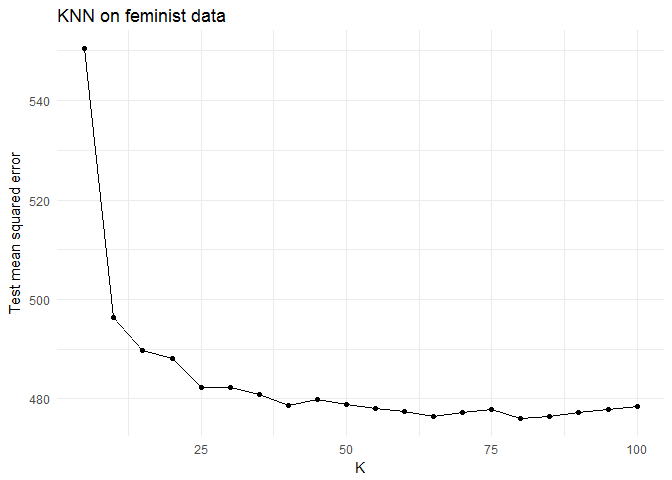
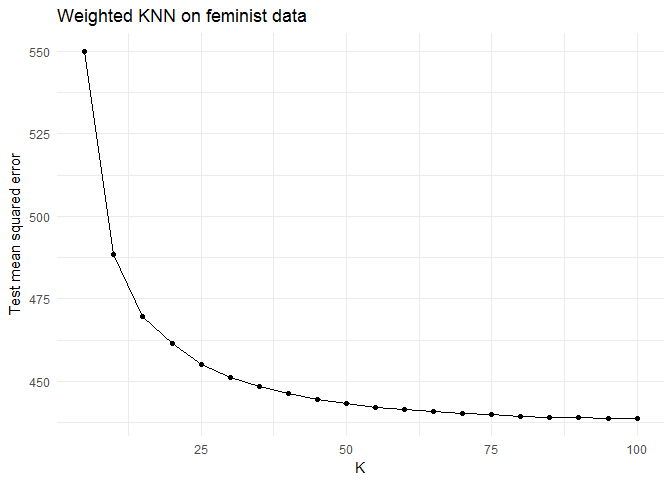
q1 q2 done

diff --git a/students/Lim_ChengYee/PS9/ps9-nonparametric-unsupervised.md b/students/Lim_ChengYee/PS9/ps9-nonparametric-unsupervised.md
@@ -27,29 +27,58 @@ feminist_test <- as_tibble(feminist_split$test)
 1.  Calculate the test MSE for KNN models with *K* = 5, 10, 15, …, 100, using whatever combination of variables you see fit. Which model produces the lowest test MSE?
 
 ``` r
-mse_knn <- data_frame(k = seq(5, 15, by = 5),
-                      knn = map(k, ~ knn.reg(select(feminist_train, -feminist), y = feminist_train$feminist,
-                         test = select(feminist_test, -feminist), k = .)),
-                      mse = map_dbl(knn, ~ mean((feminist_test$feminist - .$pred)^2)))
-```
-
-1.  Calculate the test MSE for weighted KNN models with *K* = 5, 10, 15, …, 100 using the same combination of variables as before. Which model produces the lowest test MSE?
-
-``` r
 mse_knn <- data_frame(k = seq(5, 100, by = 5),
                       knn = map(k, ~ knn.reg(select(feminist_train, -feminist), y = feminist_train$feminist,
                          test = select(feminist_test, -feminist), k = .)),
                       mse = map_dbl(knn, ~ mean((feminist_test$feminist - .$pred)^2)))
 
-ggplot(mse_knn, aes(k, mse)) +
+mse_knn %>% 
+  select(-knn) %>%
+  kable()
+```
+
+|    k|  mse|
+|----:|----:|
+|    5|  550|
+|   10|  496|
+|   15|  490|
+|   20|  488|
+|   25|  482|
+|   30|  482|
+|   35|  481|
+|   40|  479|
+|   45|  480|
+|   50|  479|
+|   55|  478|
+|   60|  477|
+|   65|  476|
+|   70|  477|
+|   75|  478|
+|   80|  476|
+|   85|  476|
+|   90|  477|
+|   95|  478|
+|  100|  478|
+
+The KNN model with *K* = 60 produces the lowest test MSE. The test MSE is 476.
+
+1.  Calculate the test MSE for weighted KNN models with *K* = 5, 10, 15, …, 100 using the same combination of variables as before. Which model produces the lowest test MSE?
+
+``` r
+mse_kknn <- data_frame(k = seq(5, 100, by = 5),
+                      knn = map(k, ~ kknn(feminist ~ .,
+                                          train = feminist_train, test = feminist_test, k = .)),
+                      mse = map_dbl(knn, ~ mean((feminist_test$feminist - .$fitted.values)^2)))
+
+ggplot(mse_kknn, aes(k, mse)) +
   geom_line() +
   geom_point() + 
-  labs(title = "KNN on feminist data",
+  labs(title = "Weighted KNN on feminist data",
        x = "K",
        y = "Test mean squared error")  
 ```
 
-![](ps9-nonparametric-unsupervised_files/figure-markdown_github/1c-1.png)
+![](ps9-nonparametric-unsupervised_files/figure-markdown_github/1c-1.png) The KNN model with *K* = 85, 90, 95, 100 produces the lowest test MSE. The test MSE is 439.
 
 1.  Compare the test MSE for the best KNN/wKNN model(s) to the test MSE for the equivalent linear regression, decision tree, boosting, and random forest methods using the same combination of variables as before. Which performs the best? Why do you think this method performed the best, given your knowledge of how it works?
 
@@ -58,7 +87,9 @@ mse <- function(model, data) {
   x <- model - data
   mean(x ^ 2, na.rm = TRUE)
 }
-actual_vals <- feminist_test$feminist
+
+kknn_best <- mse_kknn %>% 
+  filter(k == 85)
 
 feminist_lm <- lm(feminist ~., data = feminist_train)
 feminist_tree <- tree(feminist ~ ., data = feminist_train,
@@ -71,23 +102,28 @@ feminist_boost <- gbm(feminist_train$feminist ~ ., data=feminist_train, n.trees 
     ## Distribution not specified, assuming gaussian ...
 
 ``` r
+actual_vals <- feminist_test$feminist
+mse_kknn <- kknn_best$mse
 mse_lm <- mse(predict(feminist_lm, feminist_test), actual_vals)
 mse_tree <- mse(predict(feminist_tree, feminist_test), actual_vals)
 mse_rf <- mse(predict(feminist_rf, feminist_test), actual_vals)
 mse_boost <- mse(predict(feminist_boost, feminist_test, n.trees=10000), actual_vals)
 
-Methods <- c("Linear model", "Decision Tree", "Random Forests", "Boosting")
-MSE <- c(mse_lm, mse_tree, mse_rf, mse_boost)
+Methods <- c("Weighted KNN", "Linear model", "Decision Tree", "Random Forests", "Boosting")
+MSE <- c(mse_kknn, mse_lm, mse_tree, mse_rf, mse_boost)
 
 kable(data.frame(Methods, MSE))
 ```
 
 | Methods        |  MSE|
 |:---------------|----:|
+| Weighted KNN   |  439|
 | Linear model   |  446|
 | Decision Tree  |  571|
 | Random Forests |  450|
 | Boosting       |  450|
+
+The Weighted KNN model had the lowest test MSE, it suggests that the use of similar data points (nearest neighbors) is good enough to predict the attitude towards feminists. Decision trees are better for classification tasks, thus it is the worst performing model to predict attitudes towards feminists. As expected, random forests and boosting performs better than decision trees as it makes use of resampling to increase prediction accuracy. Linear model is the second best performing model, suggesting that the model is well-captured with a linear relationship, thus test MSE is minimized.
 
 Voter turnout and depression \[2 points\]
 =========================================
@@ -128,19 +164,22 @@ mse_knn %>%
   kable()
 ```
 
-|      k|                                                                                                                                                                       mse\_test|
-|------:|-------------------------------------------------------------------------------------------------------------------------------------------------------------------------------:|
-|      1|                                                                                                                                                                           0.357|
-|      2|                                                                                                                                                                           0.347|
-|      3|                                                                                                                                                                           0.351|
-|      4|                                                                                                                                                                           0.361|
-|      5|                                                                                                                                                                           0.346|
-|      6|                                                                                                                                                                           0.348|
-|      7|                                                                                                                                                                           0.333|
-|      8|                                                                                                                                                                           0.339|
-|      9|                                                                                                                                                                           0.320|
-|     10|                                                                                                                                                                           0.320|
-|  1. Ca|  lculate the test error rate for weighted KNN models with *K* = 1, 2, …, 10 using the same combination of variables as before. Which model produces the lowest test error rate?|
+|    k|  mse\_test|
+|----:|----------:|
+|    1|      0.357|
+|    2|      0.347|
+|    3|      0.351|
+|    4|      0.361|
+|    5|      0.346|
+|    6|      0.348|
+|    7|      0.333|
+|    8|      0.339|
+|    9|      0.320|
+|   10|      0.320|
+
+The model that produced the lowest test error rate is *K* = 10. The test MSE is 0.320.
+
+1.  Calculate the test error rate for weighted KNN models with *K* = 1, 2, …, 10 using the same combination of variables as before. Which model produces the lowest test error rate?
 
 ``` r
 mse_kknn <- data_frame(k = seq(1, 10, by = 1),
@@ -165,6 +204,8 @@ mse_kknn %>%
 |    9|  0.212|
 |   10|  0.209|
 
+The weighted KNN model that produced the lowest test error rate is also *K* = 10. The test MSE is 0.209.
+
 1.  Compare the test error rate for the best KNN/wKNN model(s) to the test error rate for the equivalent logistic regression, decision tree, boosting, random forest, and SVM methods using the same combination of variables as before. Which performs the best? Why do you think this method performed the best, given your knowledge of how it works?
 
 ``` r
@@ -188,29 +229,6 @@ mhealth_poly_tune <- tune(svm, vote96 ~ ., data = mhealth_train,
                      kernel = "polynomial",
                      range = list(cost = c(.001, .01, .1, 1, 5, 10, 100)))
 mhealth_best <- mhealth_poly_tune$best.model
-summary(mhealth_best)
-```
-
-    ## 
-    ## Call:
-    ## best.tune(method = svm, train.x = vote96 ~ ., data = mhealth_train, 
-    ##     ranges = list(cost = c(0.001, 0.01, 0.1, 1, 5, 10, 100)), 
-    ##     kernel = "polynomial")
-    ## 
-    ## 
-    ## Parameters:
-    ##    SVM-Type:  eps-regression 
-    ##  SVM-Kernel:  polynomial 
-    ##        cost:  1 
-    ##      degree:  3 
-    ##       gamma:  0.143 
-    ##      coef.0:  0 
-    ##     epsilon:  0.1 
-    ## 
-    ## 
-    ## Number of Support Vectors:  259
-
-``` r
 mhealth_tune <- tune(svm, vote96 ~., data = mhealth_train, 
                           kernel = "linear", 
                           range = list(cost = c(.001, 0.01, .1, 1, 5, 10, 100)))
@@ -221,12 +239,6 @@ mse_polysvm <- mse(predict(mhealth_best, mhealth_test, decision.values = TRUE), 
 
 Methods <- c("Logistic model", "Decision Tree", "Random Forests", "Boosting", "Support Vector Machine (Poly)", "Support vector Machine (linear)")
 MSE <- c(mse_glm, mse_tree, mse_rf, mse_boost, mse_polysvm, mse_lmsvm)
-MSE
-```
-
-    ## [1] 2.161 0.332 0.296 2.482 0.264 0.264
-
-``` r
 kable(data.frame(Methods, MSE))
 ```
 
@@ -238,6 +250,8 @@ kable(data.frame(Methods, MSE))
 | Boosting                        |  2.482|
 | Support Vector Machine (Poly)   |  0.264|
 | Support vector Machine (linear) |  0.264|
+
+Weighted KNN model has the lowest test MSE, followed by support vector machine model, and then random forests, and then the decision trees. It seems that weighted KNN model is classification/regression agnostic, and does well in predicting as it does not impose a functional form on the predictor.
 
 Colleges \[2 points\]
 =====================
